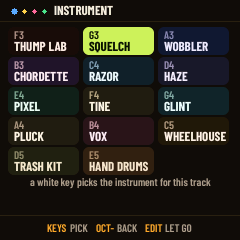
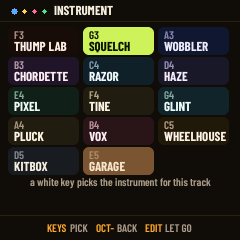
TFM-UI round 9: the report and the re-rendered screens -- NIGHT-REPORT-UI.md Round 9 (sizes per item; findings: the knob's detents per turn are not in the code, the DJ's storage and its motion ids (a scene-load bug found and fixed, older builds refuse such scenes), the per-key level spread of the so

Changed region(s): [[0.3208, 0.6125, 0.6417, 0.7292], [0.0583, 0.6125, 0.2625, 0.7292]]

diff --git a/NIGHT-REPORT-UI.md b/NIGHT-REPORT-UI.md
@@ -300,3 +300,35 @@ Branch `tfm-ui`: `725c734` (1), `6d493a8` (2), `9d54c13` (3), `049b94c` (4), `62
 **Tests:** tests/ui_test_r6.h (round 8 section): `test_r8_dj`, `test_r8_morph`, `test_r8_macros`, `test_r8_kits`, `test_r8_pitched_lane`, `test_r8_jam_timer`.
 
 **Suite (round 8):** tests=0 (ALL HOST TESTS PASSED), no FAIL lines, target_budget 0 (the audio ISR 8,593 against 8,285: +3.7 %, within the +10 %). The first run failed to build ui_test in the FELUCCA_CPU2=0 configuration: item 2's `r6_fresh` reset per-part seeds that the one-core build has as single values; fixed in the test (this commit), all four ui_test configurations build and pass. 0 lint findings, alignment 0 off. Final build 507,496 B, RAM 63,400 B, pool 365,752 B. Published as the installer preview (next/), the tested release at the root unchanged.
+
+## Round 9 (ROUND-9.md: knob speed, the DJ on the master, TILT's drums, the drum keys, level across the keys)
+
+Branch `tfm-ui`: `446cbbd` (1), `a61df7f` + `dcd7655` (2, then its budget), `1511123` (3), `eb4949f` (4), `61e10ad` (5), `036f31b` (the ISR budget after 4), `b6511af` (2: a scene with DJ motion loads back), `8afa4ef` + `60da78b` (2: the editor's table and range). Package `tilt-fm-ui-r9-<sha>.fwsc`. Nothing was run on an FM-1.
+
+**Flash and RAM** (app image / RAM .data+.bss; pool 365,752 -> 365,756 B): round 8 final 507,496 / 63,400. Item 1: 507,632 / 63,432. Item 2: 506,228 / 63,336 (the per-track DJ filter removed), 506,232 after the budget split. Item 3: 507,336. Item 4: 507,488 / 63,368. Item 5: 509,496 (TFM_KEQ, 1,890 B). ISR fix: 509,552 / 63,368. Fixes after the suite: 509,460 / 63,368 (headroom 4,216 B).
+
+1. **Knob speed.** Every macro moved 1 of 127 a detent since round 1 (~6 turns for 0 -> 100). Now `ui_input.c knob_sweep` (tfm_macro_turn_k: JAM's MORPH, SOUND, MACROS; and the DJ knobs): the speed is the ms per detent, the longer of this read's and the previous one's: 150 ms or slower 1 place (fine control; also the first two detents of a turn and a reversal), 80..150 ms 2, 30..80 ms (a steady turn) 4, 15..30 ms 6, faster 8. A steady 0 -> 100 is 34 detents. **The detents per turn are not in the panel code**: it counts a detent as one quadrature cycle (hal/fm1_input.h) and fixes no count per turn. For a 20-24 detent EC11-type encoder that is 1.4-1.7 turns. **Please count the clicks in one turn of the FM-1's knob**: if it is far from 20-24, the 30..80 ms band's 4 is the one number to change. Switches keep two detents a step. MENU > KNOB ACCEL still governs Felucca's own pages only. Test `test_r9_knob_speed`.
+2. **DJ = the song's, on the master.** K1 FILTER is perform.c's LPF | HPF (the FX layer's KNOB 1 still wins while it is turned). K2 ECHO and K3 SPACE are ECHO THROW's and REV THROW's shares: every track's delay / reverb send goes towards full, and ECHO lifts the delay's feedback to 0.7. K4 DIRT is a new drive on the master (perform.c `perf_dirt`: x1..x8 into a cubic soft clip, mixed in, before the limiter). Round 8's per-track filter (fx.c dj_filter) is gone. **They stay** where they are left. They are stored in the two globals that have been inert since 1.0 (G_DRLVL, G_DRREV: 7 bits each in a signed 14-bit value, the editor protocol's range, neutral 0), so the song, its scenes and the autosave keep them with **no format change**. An old project that used those two globals for the GM drum part's level clears them on import. **Recorded as motion** with REC on while playing, on the selected track's lane, under four motion ids after the track parameters (MO_DJ = P_COUNT + 0..3, still under 128). motion.c plays them into the DJ until that lane's pass starts again or the transport stops, and the engine-change sweeps skip them. Hold ARP + OCT- puts all four to neutral, one undo (UNDO_DJ). LATCH and the glide back are gone. Screen: THE WHOLE MIX, "STAYS . OCT- RESET"; JAM's header shows a small DJ after the track whenever any of the four is off neutral. **By ear on the emulator** (a played SQUELCH phrase, each knob at its end against the dry: the change in dB of the dry's energy): FILTER LP +1.7, HP 0.0, ECHO -5.2, SPACE -1.9, DIRT +0.2. All are plainly heard (the test wants -12 or more). Findings and notes: (a) **found by the round's own save test**: this build refused to load a scene holding DJ motion (project.c proj_motion_ids allowed no id past the stored parameter count): fixed in `b6511af`, test first. An *older* TILT-FM build still refuses such a scene whole, so don't go back to an older build with songs that have recorded DJ moves. (b) The web editor sees the two globals as before (label "-", on no page), now -8192..8191; the first packing (a byte each, 0..32767) did not fit the protocol's 14 bits, which the suite's editor test caught. (c) ALGORITHM and F#3..C#4 still pick the selected track under ARP: that is the lane the moves record on. Budget: perf_begin 28 -> 35 (7 instructions per 32-sample block: the four read once a block), perf_dirt tracked at 68, perf_block back inside its own. Test `test_r9_dj` (round 8's test_r8_dj retired with the per-track DJ).
+3. **TILT's drums.** TRASH KIT is **KITBOX**, HAND DRUMS is **GARAGE**. The kits (10, 77), voicing, macros, the presets' sounds and the pitched lane are as round 8 left them. Faces as tfm-spec/screens draws them, at 11 px text and up:
+   - **KITBOX**: a green LCD (kit, sound, presets), two knobs beside it, the eight lanes as columns (pad lit on a hit, name, the lane's LEVEL as a bar, its key), the other two knobs under them.
+   - **GARAGE**: a wooden board, eight pads with names and keys, "hand & room kit", the five kit plates (the presets, the playing one dark), four brass knobs.
+   - **THUMP LAB**: SoundThumpV3, eight pads in TILT's lane colours and a panel with THUMP, the sound, the presets line, the knobs and the keys' hint.
+
+   GARAGE's presets are the plates STUDIO BASEMENT PORCH CANTINA TIN SHED (the same five sounds, in order). KITBOX keeps TRASH KIT's names: TILT's design shows "TAPE 77", and I did not invent four more. The lanes read HAT OPEN CYM. TILT's codes: garage plays GARAGE, chop plays KITBOX. **Question:** TILT's "drums" kind is its Kitbox panel, but its code still plays THUMP LAB (as since round 2); say if it should be KITBOX. Renders `ui_snd_kitbox`, `ui_snd_garage`, `ui_snd_thump`. Test `test_r9_drum_faces`.
+4. **The drum keys.** G4..G5 play the instrument's **pitched lane up the song's scale**, degrees 0..7 from the lane's own pitch (G4 as it is, G5 the octave): THUMP LAB's 808, KITBOX's and GARAGE's tom. They are live and recorded with REC as the step's pitch (round 8 item 5's note[0]); a plain lane key records its hit with no pitch. A second pitched key hits the lane again even while the first is held. Accents stay on the DRUM grid (black key held) and come from velocity. A drum track with no TFM instrument has no pitched lane and keeps round 8's accented eight. Faces: "G4-G5: THE 808 UP THE SCALE" / "THE TOM UP THE SCALE". The pitch setup is out of line (seq.c `dw_pitch`): inlined into key_on, which sits in the ISR's key loop, it took the ISR's static cost over its limit. Test `test_r9_drum_keys`.
+5. **Level across the keys.** **Finding: the jump was on melodic instruments too, and mostly not the key tracking.** Measured key by key (every melodic instrument, every named preset, each of F3..G5 alone for 2 s and its release, K-weighted), neighbours were up to 15.6 LU apart:
+   - PLUCK HARP at G5: the string's decay.
+   - 4-9 LU on VOX (formants), HAZE, TINE DREAMY / CHURCH BASEMENT, GLINT TEMPLE and RAZOR TRANCE GATE.
+   - 2-4 LU on SQUELCH (resonance) and CHORDETTE.
+
+   A longer note made no difference: these are real per-key differences. What changed:
+   - TFM_KT's corner is now a soft knee from half an octave below its note to half an octave above, then the same slope as round 6 (its gain steps no more than 0.5 dB between neighbours).
+   - New **TFM_KEQ**: each named preset's 27 keys are pulled onto their own straight line by a measured cut in quarter dB. It cuts only (kgain stays at or under 1). Outside F3..G5 the nearest key's value applies, and a sound past the five gets none. It is generated by the test (`R9KEQ=1`, two passes).
+   - **Largest neighbour step now 0.79 LU** (the test holds 1.0).
+   - The trims were refitted to round 6's targets. PIXEL's presets other than BOSS LEVEL (peak-bound) went 1 dB down so all five stay within 1.5 LU. CHORDETTE's and VOX's SPACE gained a chorus (0..70) to stay over the macro minimum after the change.
+
+   **Limits**: the table is measured at each preset's own macro places. Turning a macro far (a resonance, a formant) can bring some unevenness back. A user's own sounds (past the five) get only the knee. Test `test_r9_key_level` (about 90 s of the UI run).
+
+**Tests:** tests/ui_test_r6.h (round 9 section): `test_r9_knob_speed`, `test_r9_dj`, `test_r9_drum_faces`, `test_r9_drum_keys`, `test_r9_key_level`; round 8's kits / pitched-lane tests follow the new names and keys.
+
+**Suite (round 9):** tests=0 (ALL HOST TESTS PASSED), no FAIL lines, target_budget 0 (the audio ISR 9,016 against 8,285: +8.8 %, within the +10 %; it was 8,592 after item 2, and item 4's key setup is out of line to stay inside). The earlier runs caught the scene-load bug and the editor range (both fixed above). 0 lint findings, alignment 0 off. Final build 509,460 B, RAM 63,368 B, pool 365,756 B. Published as the installer preview (next/), the tested release at the root unchanged.
